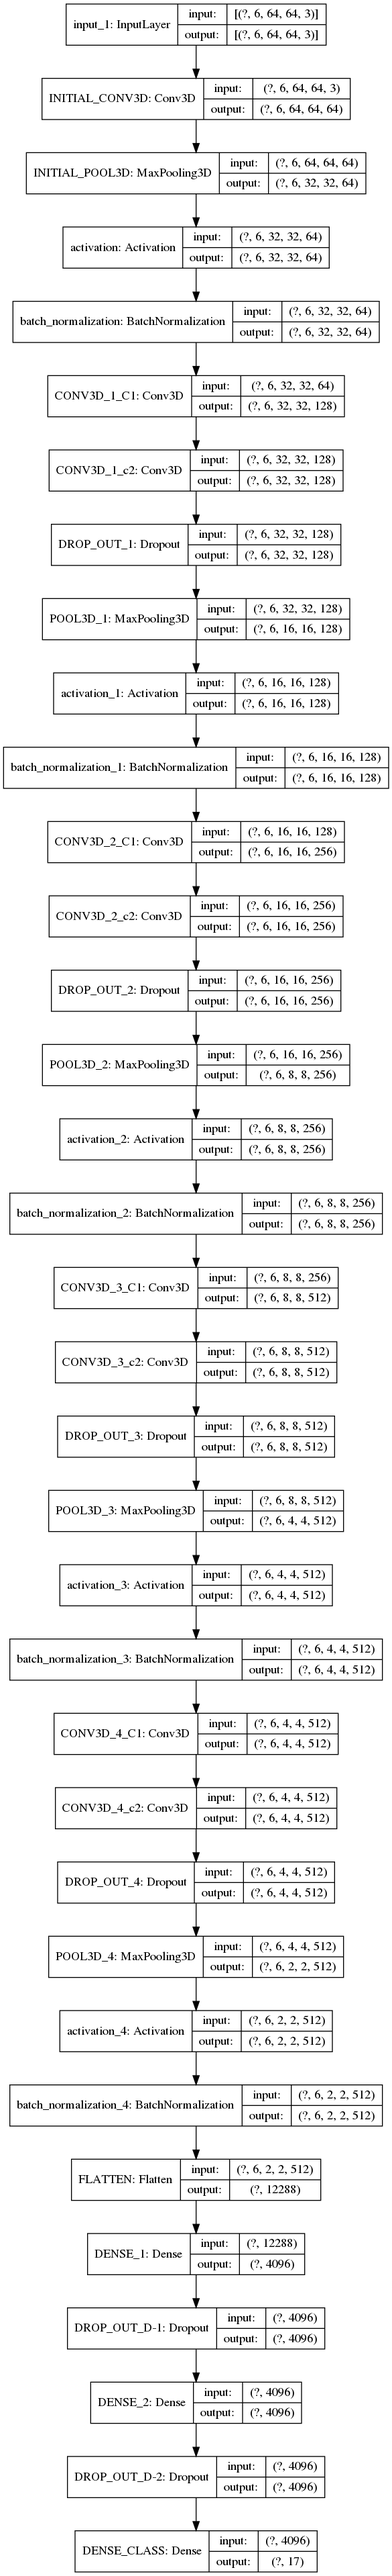
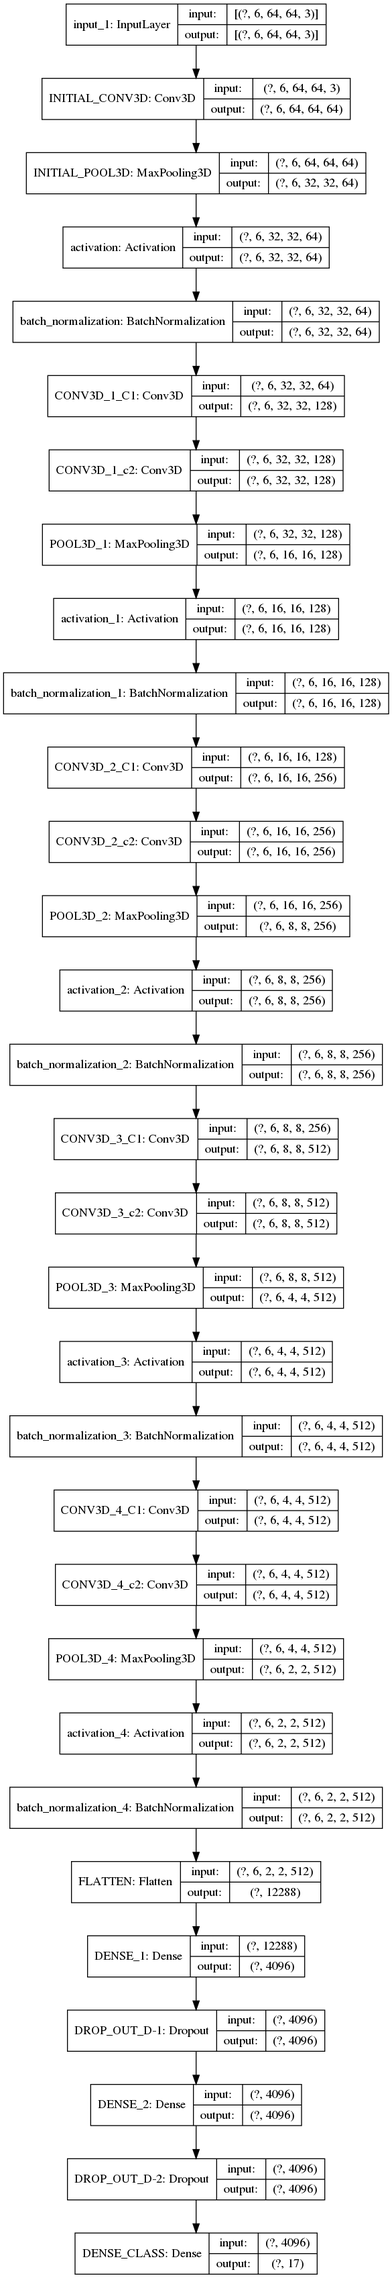
Added Weight Regularization

Changed region(s): [[0.0, 0.0, 1.0, 0.9997], [0.0615, 0.781, 0.0923, 0.8123], [0.0615, 0.4686, 0.0923, 0.4999]]

diff --git a/coreLib/model.py b/coreLib/model.py
@@ -13,21 +13,19 @@ from tensorflow.keras.utils import plot_model
 
 import os
 #--------------------------------------------------------------------------------------
-def convNet3D(seq_len=6,img_dim=64,nb_channels=3,nb_classes=17,drop_out=0.2):
+def convNet3D(seq_len=6,img_dim=64,nb_channels=3,nb_classes=17,drop_out=0.2,weight_decay=1e-4):
     in_shape=(seq_len,img_dim,img_dim,nb_channels)
     feature_spec=[128,256,512,512]
     IN=Input(shape=in_shape)
     # 1st layer group	    
-    X=Conv3D(64,(3, 3, 3), activation='relu',padding='same', name='INITIAL_CONV3D')(IN)
+    X=Conv3D(64,(3, 3, 3), activation='relu',padding='same', name='INITIAL_CONV3D',kernel_regularizer=l2(weight_decay))(IN)
     X=MaxPooling3D(pool_size=(1, 2, 2), strides=(1, 2, 2), name='INITIAL_POOL3D')(X)
     X=Activation('relu')(X)
     X=BatchNormalization()(X)	    
     # conv layer gropus	    
     for n,nb_filter in enumerate(feature_spec):	   
-        X=Conv3D(nb_filter, (3, 3, 3), activation='relu',padding='same', name='CONV3D_{}_C1'.format(n+1))(X)
-        X=Conv3D(nb_filter, (3, 3, 3), activation='relu',padding='same', name='CONV3D_{}_c2'.format(n+1))(X)
-        if drop_out:
-            X=Dropout(drop_out,name='DROP_OUT_{}'.format(n+1))(X)	    
+        X=Conv3D(nb_filter, (3, 3, 3), activation='relu',padding='same',kernel_regularizer=l2(weight_decay), name='CONV3D_{}_C1'.format(n+1))(X)
+        X=Conv3D(nb_filter, (3, 3, 3), activation='relu',padding='same',kernel_regularizer=l2(weight_decay), name='CONV3D_{}_c2'.format(n+1))(X)
         X=MaxPooling3D(pool_size=(1, 2, 2), strides=(1, 2, 2), name='POOL3D_{}'.format(n+1))(X)
         X=Activation('relu')(X)
         X=BatchNormalization()(X)	           
@@ -42,21 +40,19 @@ def convNet3D(seq_len=6,img_dim=64,nb_channels=3,nb_classes=17,drop_out=0.2):
     X=Dense(nb_classes, activation='softmax',name='DENSE_CLASS')(X)
     return Model(inputs=IN,outputs=X)
 
-def LRCN(seq_len=6,img_dim=64,nb_channels=3,nb_classes=17,drop_out=0.2):
+def LRCN(seq_len=6,img_dim=64,nb_channels=3,nb_classes=17,drop_out=0.2,weight_decay=1e-4):
     in_shape=(seq_len,img_dim,img_dim,nb_channels)
     feature_spec=[256,512]
     layer_specs=[256,128,64]
     IN=Input(shape=in_shape)
     # first (non-default) block
-    X=TimeDistributed(Conv2D(128, (3, 3), strides=(2, 2), padding='same'))(IN)
+    X=TimeDistributed(Conv2D(128, (3, 3), strides=(2, 2), padding='same',kernel_regularizer=l2(weight_decay)))(IN)
     X=TimeDistributed(MaxPooling2D((2, 2), strides=(2, 2)))(X)
     X=TimeDistributed(Activation('relu'))(X)
     X=BatchNormalization()(X)
     # conv layer gropus
     for nb_filter in feature_spec:
-        X=TimeDistributed(Conv2D(nb_filter, (3, 3), strides=(2, 2), padding='same'))(X)
-        if drop_out:
-            X=Dropout(drop_out)(X)	    
+        X=TimeDistributed(Conv2D(nb_filter, (3, 3), strides=(2, 2), padding='same',kernel_regularizer=l2(weight_decay)))(X)
         X=TimeDistributed(MaxPooling2D((2, 2), strides=(2, 2)))(X)
         X=TimeDistributed(Activation('relu'))(X)
         X=BatchNormalization()(X)
@@ -67,6 +63,12 @@ def LRCN(seq_len=6,img_dim=64,nb_channels=3,nb_classes=17,drop_out=0.2):
         X=LSTM(layer_specs[i],return_sequences=True,activation='tanh')(X)
     # last layers
     X=LSTM(32,return_sequences=False,activation='tanh')(X)
+    X=Dense(28, activation='relu', name='DENSE_1')(X)
+    if drop_out:
+            X=Dropout(drop_out,name='DROP_OUT_D-1')(X)	    
+    X=Dense(24, activation='relu', name='DENSE_2')(X)
+    if drop_out:
+            X=Dropout(drop_out,name='DROP_OUT_D-2')(X)	    
     X=Dense(nb_classes, activation='softmax',name='DENSE_CLASS')(X)
     return Model(inputs=IN,outputs=X)
 

diff --git a/README.md b/README.md
@@ -1,5 +1,5 @@
 # pyACTRECOG
-    Version: 1.0.2    
+    Version: 1.0.3    
     Author : Md. Nazmuddoha Ansary
                   
 ![](/info/src_img/python.ico?raw=true )
@@ -133,6 +133,7 @@ The model is based on the paper [Learning Spatiotemporal Features with 3D Convol
 * **Differences from Original Paper Version**:
 1. ***BatchNormalization*** is used after pooling
 2. No ***zero padding*** at last conv groups
+3. **Weight regularizers** are used to avoid overfitting
 
 
 The adapted model structre is as follow:
@@ -143,7 +144,9 @@ The adapted model structre is as follow:
 The model is based on the paper [Long-Term Recurrent Convolutional Networks for Visual Recognition and Description](https://ieeexplore.ieee.org/document/7558228) 
 
 * **Differences from Original Paper Version**:
-A Custom **ConvBlock** like structre is used. Also please note that the **BatchNorm** layers are **not time distributed**.
+1. A Custom **ConvBlock** like structre is used. 
+2. The **BatchNorm** layers are **not time distributed**.
+3. **Weight regularizers** are used to avoid overfitting
 
 The adapted model structre is as follow:
 
